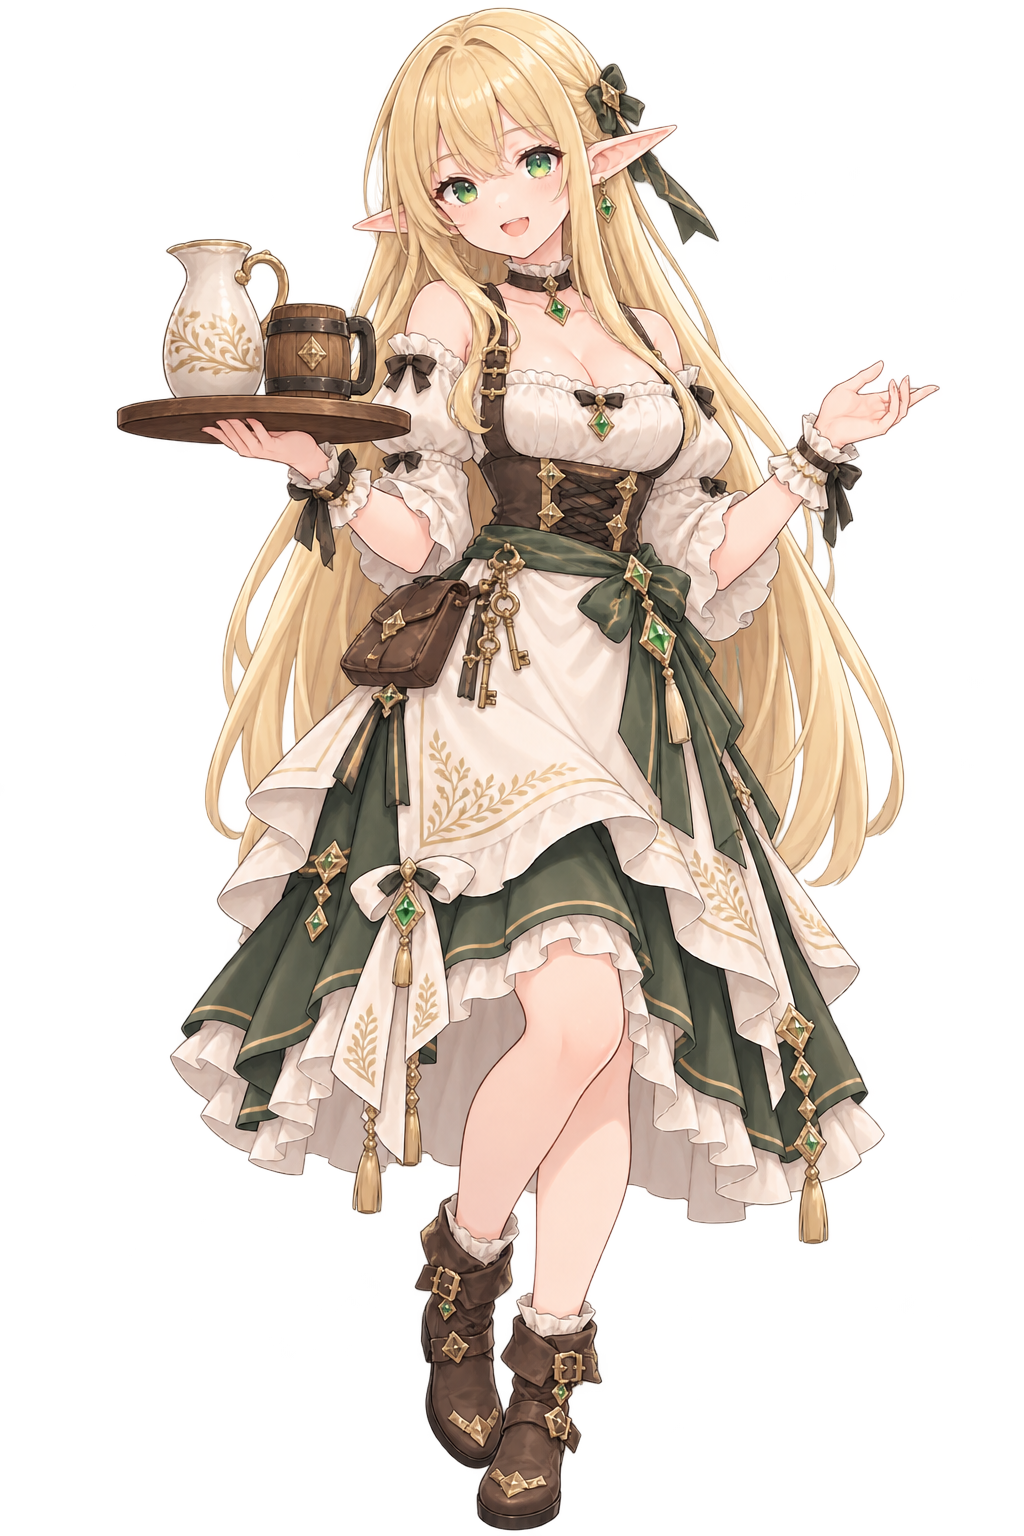
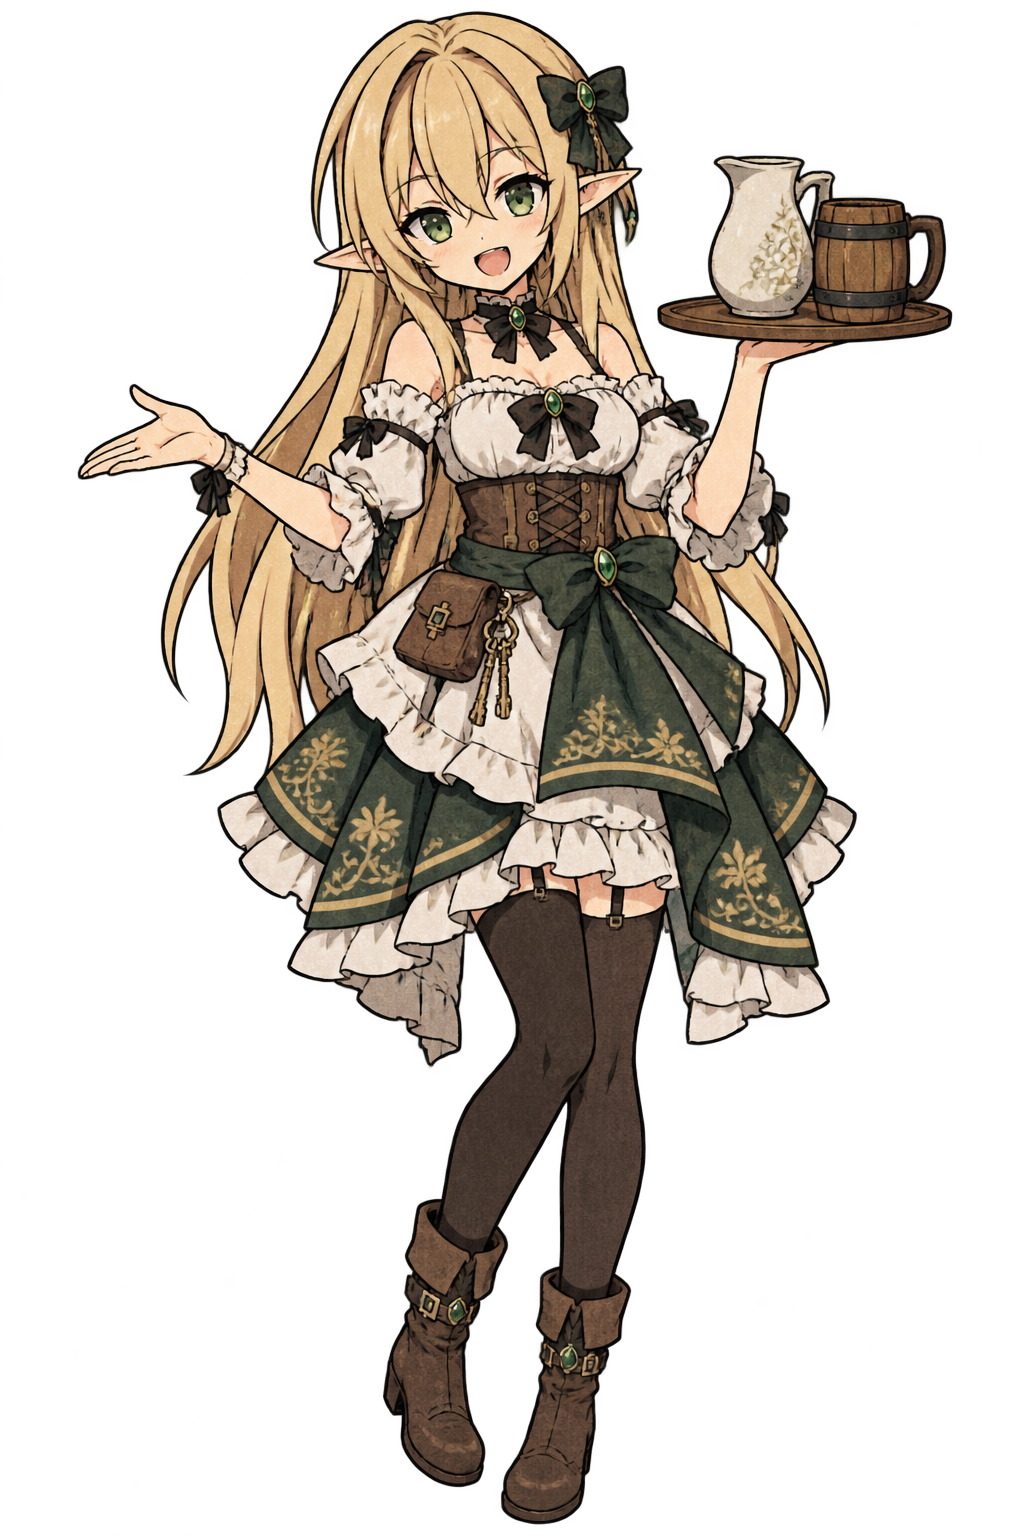
Adopt supplied warrior mage and facility NPC portraits

diff --git a/native/recruit-roster.js b/native/recruit-roster.js
@@ -6,7 +6,7 @@ module.exports=function(templates){
   return Object.entries(roles).flatMap(([job,role])=>Object.entries(races).flatMap(([race,label])=>['male','female'].map(sex=>{
     const base=templates.find(t=>t.job===job);
     return {...base,id:`recruit-${job}-${race}-${sex}`,job,role,race,sex,recruitRevision:1,
-      image:['scout','porter'].includes(job)?`characters/${job}-${race}-${sex}-01.png`:base.image,
+      image:!(job==='mage'&&race==='elf'&&sex==='male')?`characters/${job}-${race}-${sex}-01.png`:base.image,
       name:`${label}の${role}（${sex==='male'?'男':'女'}）`};
   })));
 };

diff --git a/native/test_portraits.py b/native/test_portraits.py
@@ -36,9 +36,11 @@ class PortraitTests(unittest.TestCase):
         return path
 
     def test_recruit_defaults_old_snapshots_and_override_priority(self):
-        for job in ('scout', 'porter'):
+        for job in ('scout', 'porter', 'guard', 'mage'):
             for race in ('human', 'elf', 'dwarf'):
                 for sex in ('male', 'female'):
+                    if (job, race, sex) == ('mage', 'elf', 'male'):
+                        continue
                     uid = f'recruit-{job}-{race}-{sex}'
                     key = f'characters/{job}-{race}-{sex}-01.png'
                     self.store[key] = object()
@@ -49,6 +51,8 @@ class PortraitTests(unittest.TestCase):
                     with Image.open(Path(__file__).parent / 'assets' / key) as image:
                         self.assertEqual(image.mode, 'RGBA')
                         self.assertEqual(image.width, 1024)
+        self.store['healer.png'] = 'missing-original'
+        self.assertEqual(resolve_portrait(self.store, {'id':'recruit-mage-elf-male','image':'healer.png'}), 'missing-original')
         self.store['scout.png'] = 'legacy'
         self.assertEqual(resolve_portrait(self.store, {'id': 'scout', 'image': 'scout.png'}), 'legacy')
 

diff --git a/native/portraits.py b/native/portraits.py
@@ -83,9 +83,11 @@ def resolve_portrait(images, member):
             return override
     key = ('enemy/enemy_' if member.get('side') == 'enemy' else '') + member.get('image', '')
     if member.get('side') != 'enemy':
-        for job in ('scout', 'porter'):
+        for job in ('scout', 'porter', 'guard', 'mage'):
             for race in ('human', 'elf', 'dwarf'):
                 for sex in ('male', 'female'):
+                    if (job, race, sex) == ('mage', 'elf', 'male'):
+                        continue
                     if member.get('id') == f'recruit-{job}-{race}-{sex}':
                         key = f'characters/{job}-{race}-{sex}-01.png'
     return images.get(key)

diff --git a/docs/character-npc-assets-20261031.md b/docs/character-npc-assets-20261031.md
@@ -1,0 +1,39 @@
+# 戦士・魔法使い・店舗NPC差し替え（2026-10-31）
+
+基点: db520e662037549341c74f7d618903e485f9cfc3。ユーザー指定のDrive末尾01原本をバイト変更なしで採用。画像生成・ゲームルール・セーブ形式の変更なし。
+
+戦士6、魔法使い5、店舗5の計16枚。エルフ男性魔法使いの01は未提供のため既存healer.pngを維持。武器屋は既存weapon1=男性/weapon2=女性へ対応し、来店時の独立50%選択を変更しない。装飾品店・ギルドの画像は保持。
+
+|Drive原本|出典ID|採用先|寸法|SHA-256|
+|---|---|---|---|---|
+|ドワーフ_男_戦士_01.png|1h_HCf4c8cZUhOT_hjmZ6uzH13fnrKbZe|native/assets/characters/guard-dwarf-male-01.png|1024×1536 RGBA|517fdd83ddd698884a742c2d7e085d1a836884659879172da9a4c326558cd90b|
+|人間_女_戦士_01.png|1SFQKeYGYtJFiJ0BH6NWmjfo7jpgmXAke|native/assets/characters/guard-human-female-01.png|1024×2048 RGBA|25a7256f9dae352f9afe932e447b3d70cbca60bba00be97ae8cdd642b73ad2a9|
+|ドワーフ_女_戦士_01.png|1e0MM8cREJOYT6LfkcfjOT_vb4WagoJYx|native/assets/characters/guard-dwarf-female-01.png|1024×2048 RGBA|c1e9a1ff35a10b47f6518012668b8e61b4d52f6064a0536a1ade42c8f5362909|
+|人間_男_戦士_01.png|1x4ZUtEzSFMdix-kMz5A0E9J5pC9KMr5E|native/assets/characters/guard-human-male-01.png|1024×2048 RGBA|cfee69337a5d252e9dc89742dc089ffb26a25854d6588771870ca34c8199f201|
+|エルフ_女_戦士_01.png|1R5e8XoCaPGUwADWoKtx-lmYPauwPgbSS|native/assets/characters/guard-elf-female-01.png|1024×1536 RGBA|b1aef4b256790225e42476d2bd18d75efe5d7845ee88bddba13766b29110b9eb|
+|エルフ_男_戦士_01.png|15jf89QNIZxgyDtJtzmdML0JW9IJHy_Jx|native/assets/characters/guard-elf-male-01.png|1024×1536 RGBA|79e0f35057d9da3f628e4d80ca3c703b8e5889c054678b27004ee9db0bceba9b|
+|ドワーフ_男_魔法使い_01.png|1a46Ddn8ghIPt9LgyumE-_KZtWe8uN15t|native/assets/characters/mage-dwarf-male-01.png|1024×1536 RGBA|16d9eb07b08b0cfa87c76c3201f71e1571a7bf93a846c5c962c357912ad35ab8|
+|エルフ_女_魔法使い_01.png|1hbrjcSJQ4nEVlMLKQgAKG_cBQg_qEk1N|native/assets/characters/mage-elf-female-01.png|1024×2048 RGBA|4a56d4149f2c68993511f4af587f0ef5700b1227fc4f10b1d0c98a7af8c1edfc|
+|人間_女_魔法使い01.png|1ll6kkMCdL8fu51zxTJgbL5JZTZWyoEy8|native/assets/characters/mage-human-female-01.png|1024×2048 RGBA|09861f05005eea24b788578e6ddc3dd5a81ac2e40785d2b3ed37c324cf0de208|
+|人間_男_魔法使い_01.png|16SY7NyPmkHXyhWPW5weC5K1pwj1xibbv|native/assets/characters/mage-human-male-01.png|1024×2048 RGBA|883795aa3e08baa75f0200830e48d7376336656848adedcb2470fe818533fd18|
+|ドワーフ_女_魔法使い_01.png|1uYPHmIZOD4Y6Ak21Bao70PbEZBS_Z4an|native/assets/characters/mage-dwarf-female-01.png|1024×1536 RGBA|e128d146c41b5cc1983035481e4e7c8bc5ec846ab30167a876d60818441373fa|
+|エルフ_女_宿屋_01.png|1lIZMD4aGIFsalusavqgXVEeq4Yabldm8|godot/assets/facility_npcs/inn.png|1024×1536 RGBA|14eef3707629d7e25b3450b0c323bf68bc038678dcd2bd1fee5c05898b0516f2|
+|ドワーフ_女_道具屋_01.png|1d1BVIsiNaWtUaNfJPwp-5zuiah50ifmm|godot/assets/facility_npcs/item.png|1024×1536 RGBA|1582698f06c2fe97f4b4fae69971a83ffbe1b6b561d24b30f970726937014b4a|
+|ドワーフ_男_武器屋_01.png|1DEmZveGgcrfOJx2UMs-qdVAaobqcrmfG|godot/assets/facility_npcs/weapon1.png|1024×1536 RGBA|e183701295281ca91138619fc7a2fd4af3dad7dbdbeecc323d7cf81bc6b3c6e3|
+|ドワーフ_女_武器屋_01.png|1aJBox6oKeNJH8343xF_5lCal5p6yi9CE|godot/assets/facility_npcs/weapon2.png|1024×1536 RGBA|1de800520136c587ba561f4ad2b8340931c5fe9e9305b0cc590fa2f1d3d2c84b|
+|ドワーフ_女_防具屋_01.png|1lf2UEzJVualrzXd_pkj6JPH4WFpReV7c|godot/assets/facility_npcs/armor.png|1024×1536 RGBA|55851f58539ec2372da4bd44e9550ca4732906294bc5c3878c2cf33d8f80a5e0|
+
+## 互換と表示
+
+- 新規候補は新しい画像参照。旧セーブの同じrecruit IDは表示層で対応し、成長・装備等の保存内容は変更しない。個別設定の人物画像が最優先。旧11人物や敵は対象外。
+- NPC5枚の口元座標を原画像で採寸し、既存吹き出しの尾の接続先を更新。拡大率・縦横比・既存の下半身の画面外配置は維持。
+- 全16原画像とFHD実レンダーを確認。人物一覧は通常OSクリック、全身/顔一覧と全店舗切替は隔離した表示fixtureを使用。自然な全旅程の完走とは区別。
+
+## 検証
+
+- Python portrait 10件、Node roster 6件成功（23画像参照と未提供1枚、個別上書き、旧セーブ互換を確認）。
+- 対象Godot facility_npc_regression / speech_tail_regression / updateplan_regression 成功。PNG全7店舗のSHA・寸法・RGBA・総バイト数検査は新原本へ更新し保持。
+- GUI fixture初回は試験側が存在しないmage.pngを旧汎用画像として指定し失敗。実在healer.pngへ直して再試験。製品の未提供画像参照は初回からhealer.pngを保持。
+- FHD GUI: 人物29確認/OSクリック2回/3画像、店舗79確認/OSクリック7回/7画像が成功。新NPC5画面を実見し顔・本文の非重複と尾の方向を確認。証跡 `/workspace/new-character-assets-20261031/{gui-final,npc-gui}`。
+- FHD 1920×1080、音3種OFF。本人PC不使用。Windowsの実UIは未確認。
+- CIは現行workflowの全63実行＋後続SQLite検査をそのまま使用（--onlyなし）、15分上限も変更しない。正確なpush SHAのLinux/Windows終端と所要時間を別途報告。

diff --git a/HANDOFF.md b/HANDOFF.md
@@ -1,3 +1,8 @@
+## 最新追補：戦士・魔法使い・店舗NPC原画（2026-10-31）
+
+- 16枚を原本のまま差し替え。エルフ男性魔法使い未提供1枚は既存保持。個別人物画像・旧セーブ・武器屋2名選択を維持。
+- [対応と検証](docs/character-npc-assets-20261031.md)。FHDのみ確認。Linuxはユーザー指定のフル、既存15分上限のまま実行して終端を確認する。
+
 ## 最新追補：Linux画面テストのFHD統一・目的監査（2026-10-31）
 
 - ユーザー承認範囲：Linux画面検査を1920×1080へ統合し、目的不明/同条件重複/廃止仕様を整理。ゲーム本体・CI timeoutや並列設定は変更しない。
